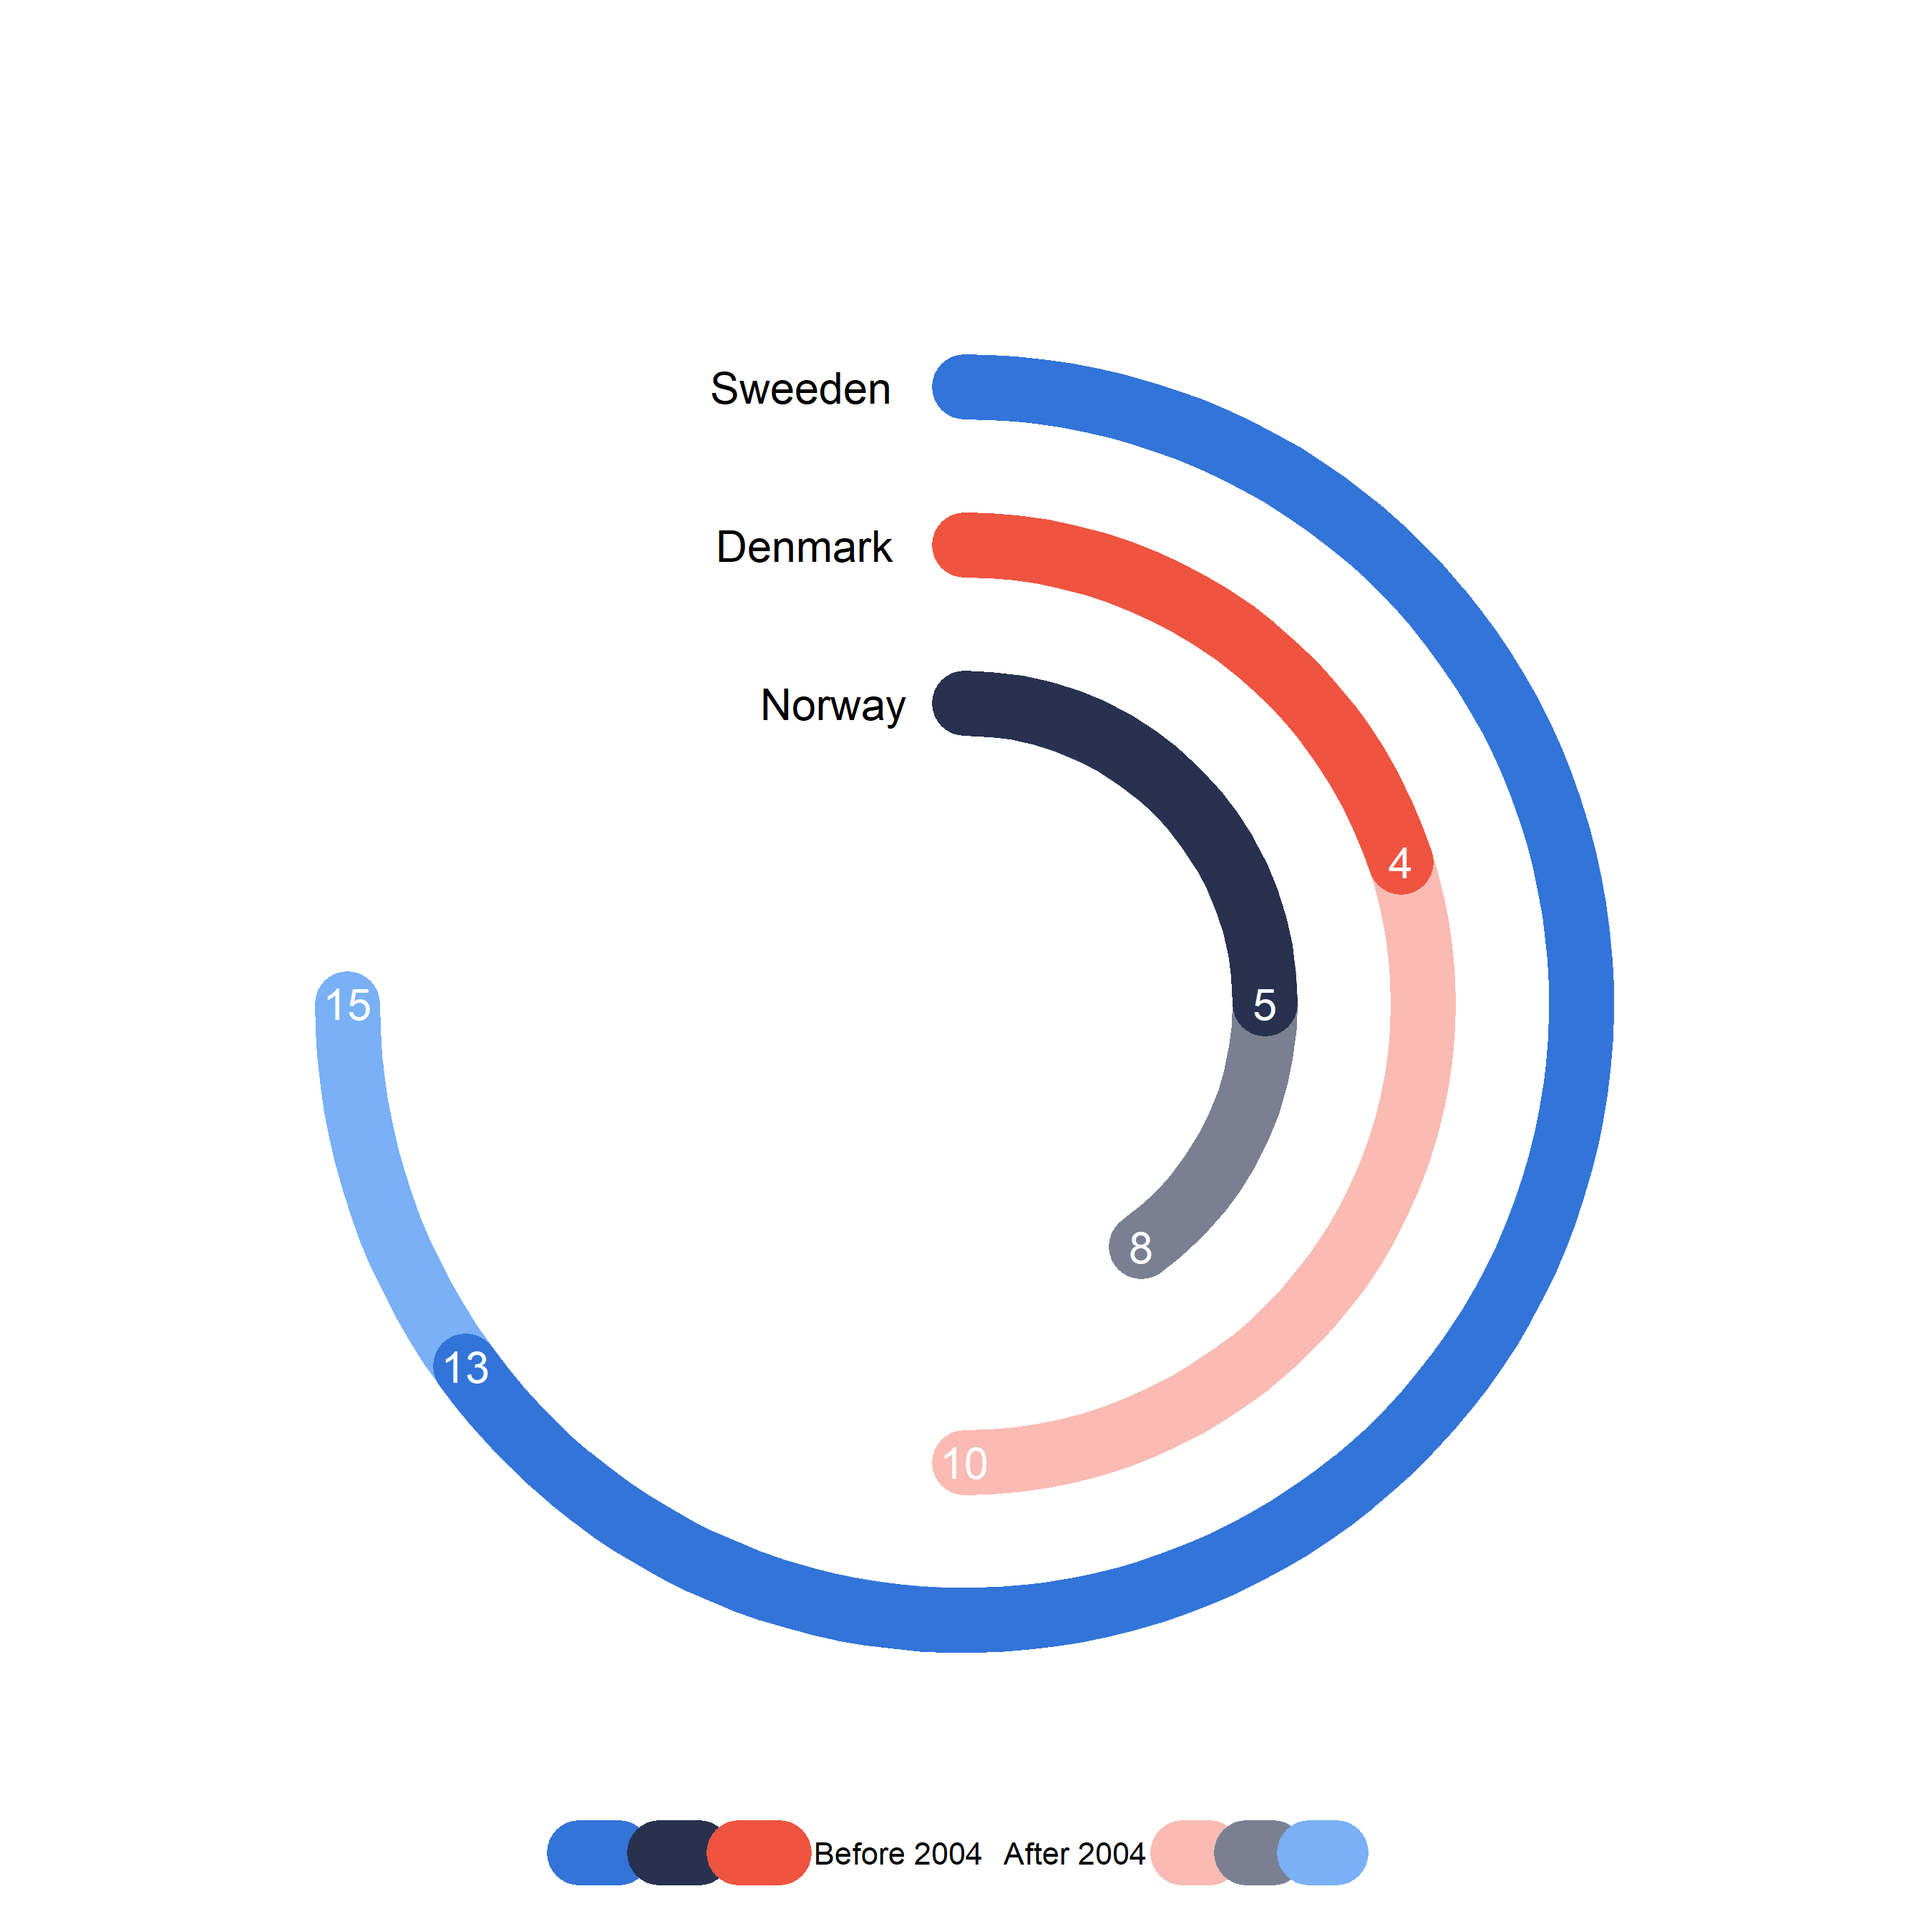
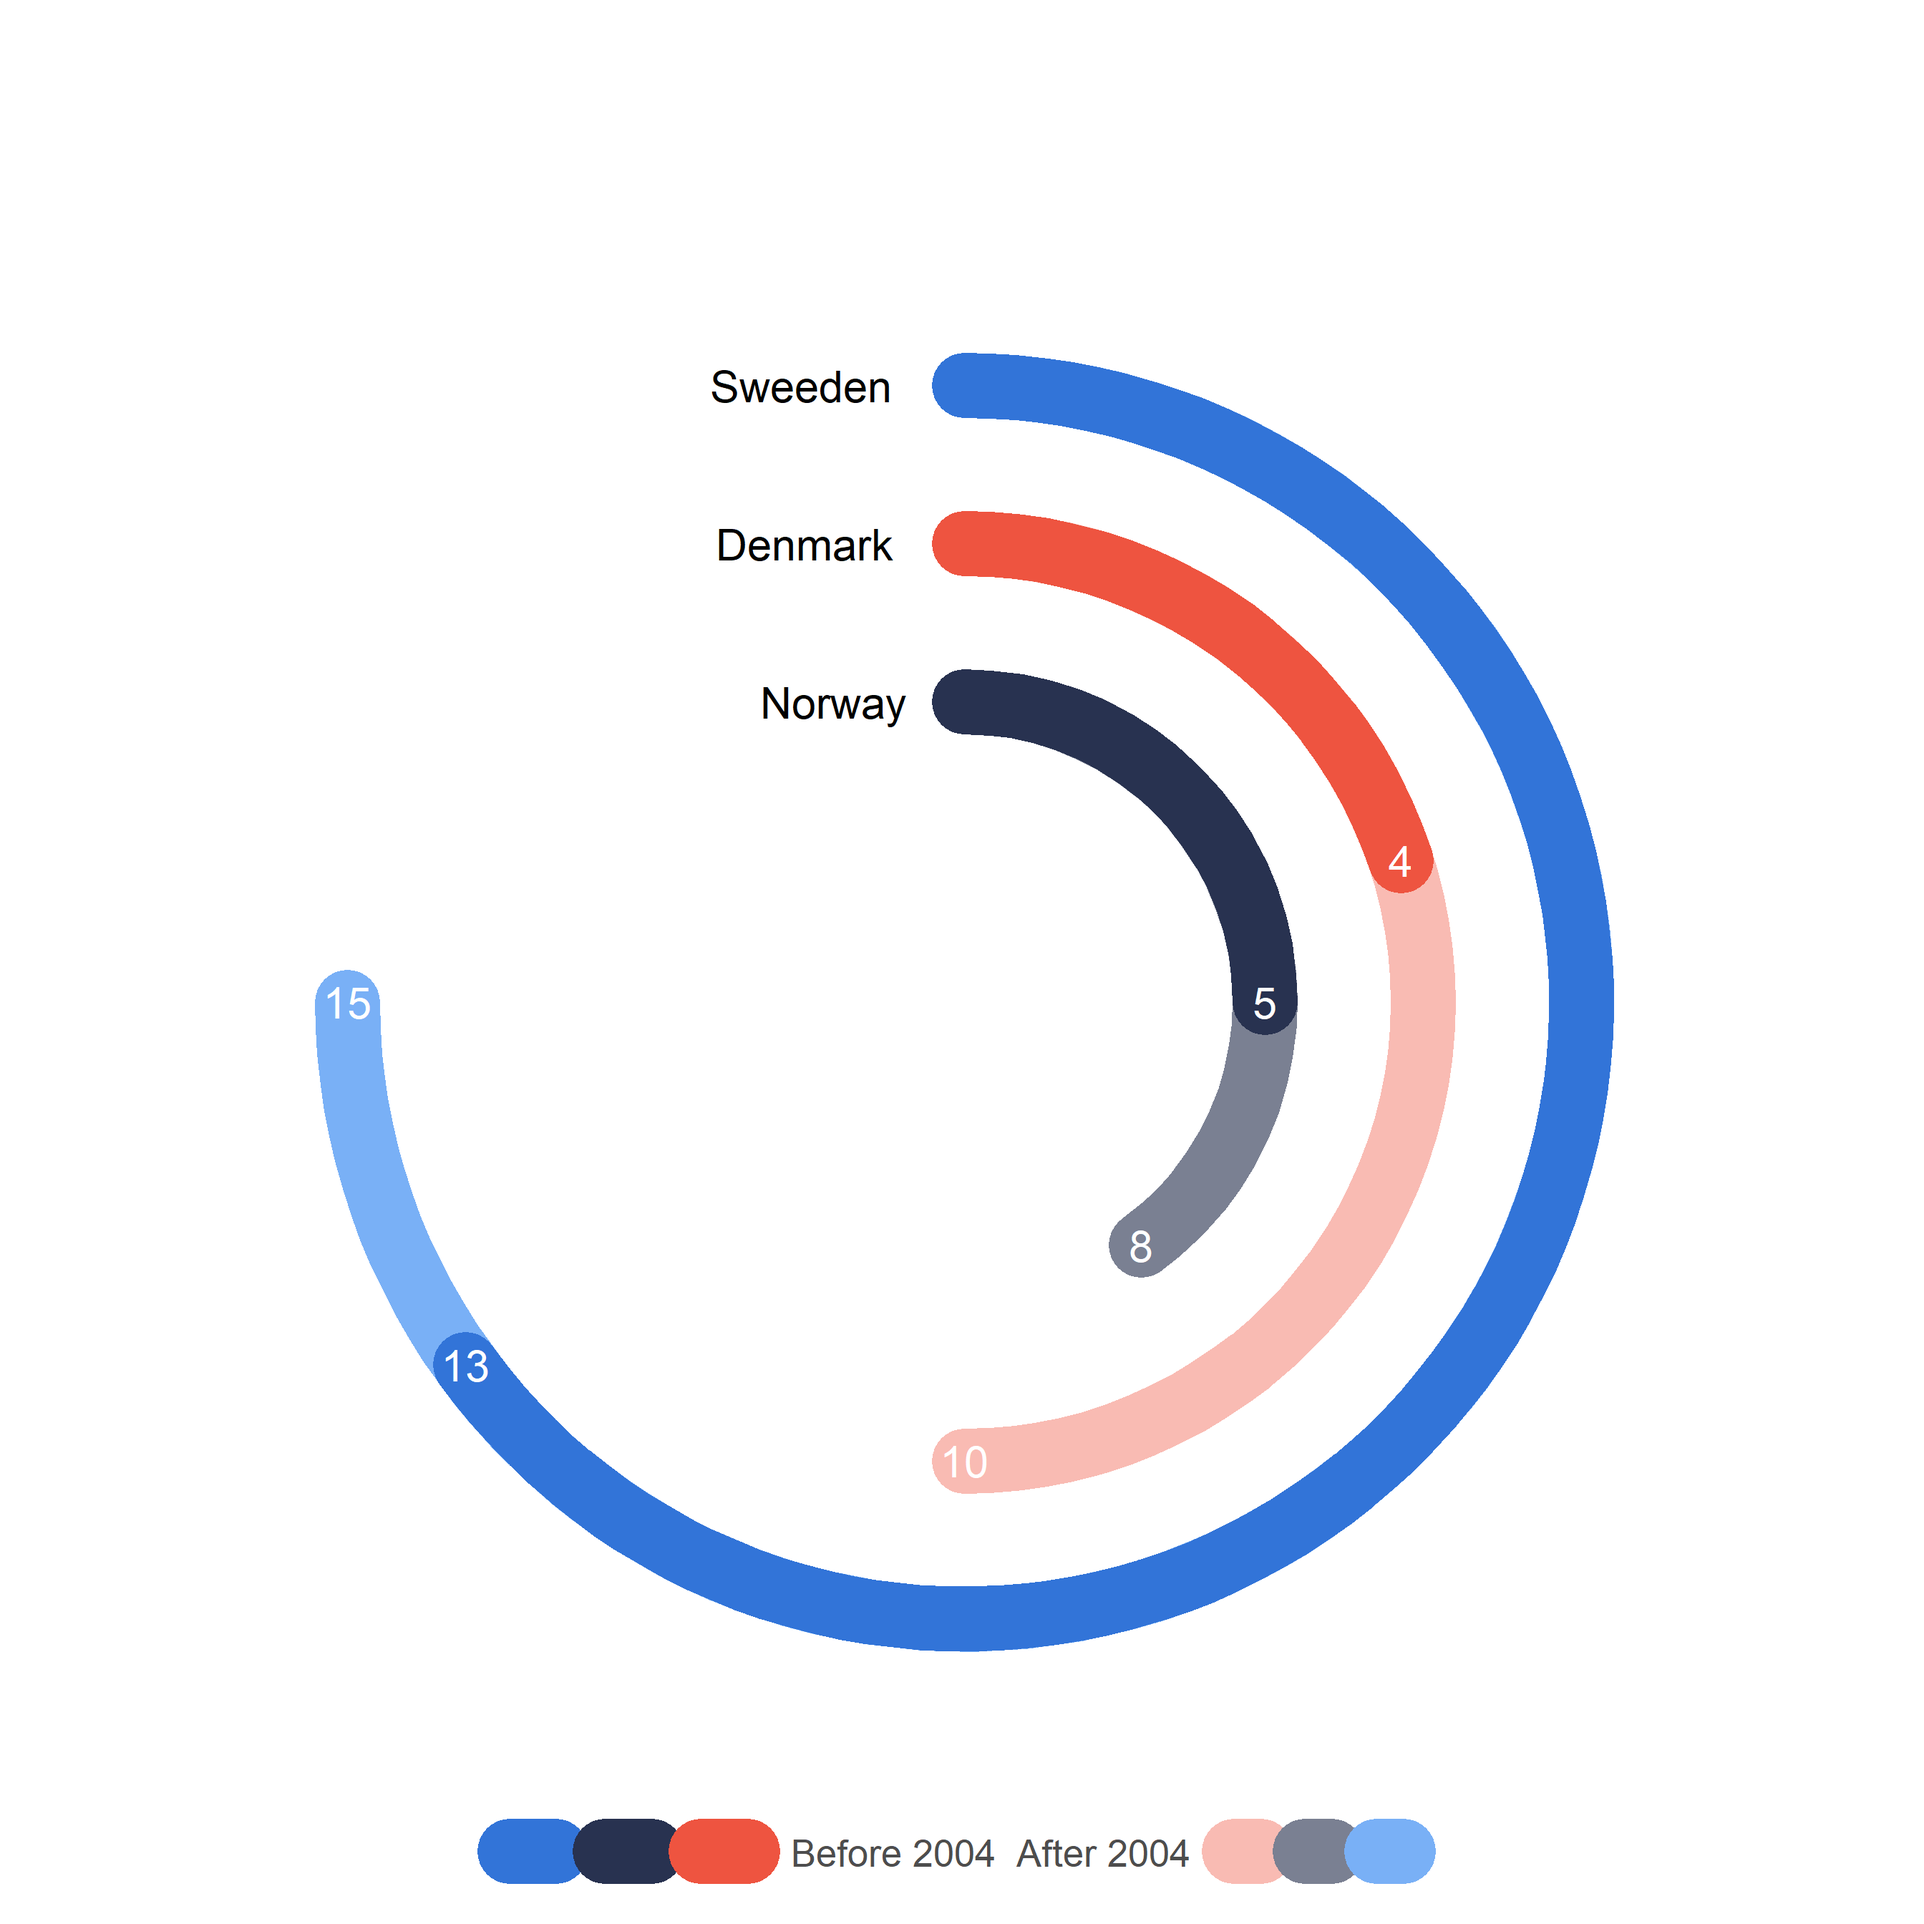
0.078

diff --git a/docs/radial.html b/docs/radial.html
@@ -512,14 +512,14 @@ Figure&nbsp;1: The original graph obtained from 1 dataset 100 visualizations cre
 <span>  <span class="fu"><a href="https://ggplot2.tidyverse.org/reference/scale_continuous.html">scale_x_continuous</a></span><span class="op">(</span>limits <span class="op">=</span> <span class="fu"><a href="https://rdrr.io/r/base/c.html">c</a></span><span class="op">(</span><span class="fl">0</span>, <span class="fl">20</span><span class="op">)</span><span class="op">)</span> <span class="op">+</span></span>
 <span>  <span class="fu"><a href="https://ggplot2.tidyverse.org/reference/coord_polar.html">coord_polar</a></span><span class="op">(</span><span class="op">)</span> <span class="op">+</span></span>
 <span>  <span class="fu"><a href="https://ggplot2.tidyverse.org/reference/guides.html">guides</a></span><span class="op">(</span>color <span class="op">=</span> <span class="fu"><a href="https://ggplot2.tidyverse.org/reference/guide_legend.html">guide_legend</a></span><span class="op">(</span>title <span class="op">=</span> <span class="st">"Before 2004"</span>, reverse <span class="op">=</span> <span class="cn">TRUE</span>,</span>
-<span>                              keywidth <span class="op">=</span> <span class="fl">1.8</span>, order <span class="op">=</span> <span class="fl">1</span>,</span>
+<span>                              keywidth <span class="op">=</span> <span class="fl">2.1</span>, order <span class="op">=</span> <span class="fl">1</span>,</span>
 <span>                              title.position <span class="op">=</span> <span class="st">"right"</span><span class="op">)</span><span class="op">)</span> <span class="op">+</span></span>
 <span>  <span class="fu"><a href="https://ggplot2.tidyverse.org/reference/theme.html">theme</a></span><span class="op">(</span>panel.background <span class="op">=</span> <span class="fu"><a href="https://ggplot2.tidyverse.org/reference/element.html">element_blank</a></span><span class="op">(</span><span class="op">)</span>,</span>
 <span>        axis.title <span class="op">=</span> <span class="fu"><a href="https://ggplot2.tidyverse.org/reference/element.html">element_blank</a></span><span class="op">(</span><span class="op">)</span>,</span>
 <span>        axis.text <span class="op">=</span> <span class="fu"><a href="https://ggplot2.tidyverse.org/reference/element.html">element_blank</a></span><span class="op">(</span><span class="op">)</span>,</span>
 <span>        axis.ticks <span class="op">=</span> <span class="fu"><a href="https://ggplot2.tidyverse.org/reference/element.html">element_blank</a></span><span class="op">(</span><span class="op">)</span>,</span>
 <span>        legend.position <span class="op">=</span> <span class="st">"bottom"</span>,</span>
-<span>        legend.title <span class="op">=</span> <span class="fu"><a href="https://ggplot2.tidyverse.org/reference/element.html">element_text</a></span><span class="op">(</span>size <span class="op">=</span> <span class="fl">16</span><span class="op">)</span>,</span>
+<span>        legend.title <span class="op">=</span> <span class="fu"><a href="https://ggplot2.tidyverse.org/reference/element.html">element_text</a></span><span class="op">(</span>size <span class="op">=</span> <span class="fl">20</span>, color <span class="op">=</span> <span class="st">"gray30"</span><span class="op">)</span>,</span>
 <span>        legend.margin <span class="op">=</span> <span class="fu"><a href="https://ggplot2.tidyverse.org/reference/element.html">margin</a></span><span class="op">(</span>t <span class="op">=</span> <span class="op">-</span><span class="fl">75</span><span class="op">)</span>,</span>
 <span>        legend.text <span class="op">=</span> <span class="fu"><a href="https://ggplot2.tidyverse.org/reference/element.html">element_blank</a></span><span class="op">(</span><span class="op">)</span></span>
 <span>        <span class="op">)</span></span></code><button title="Copy to Clipboard" class="code-copy-button"><i class="bi"></i></button></pre></div>
